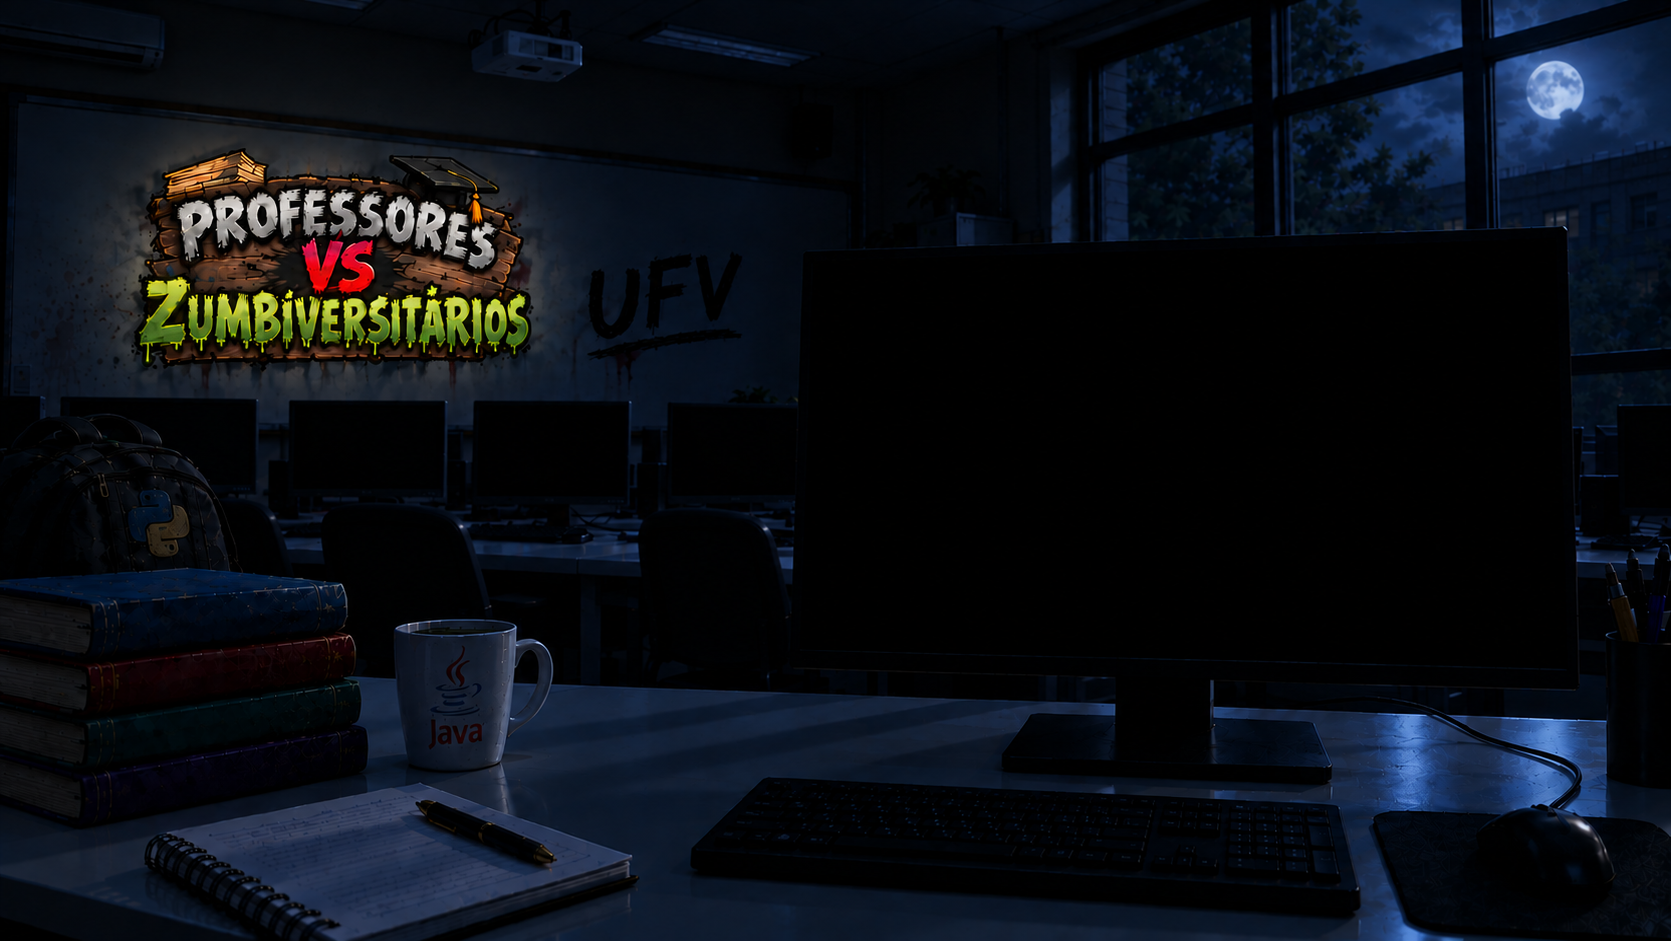
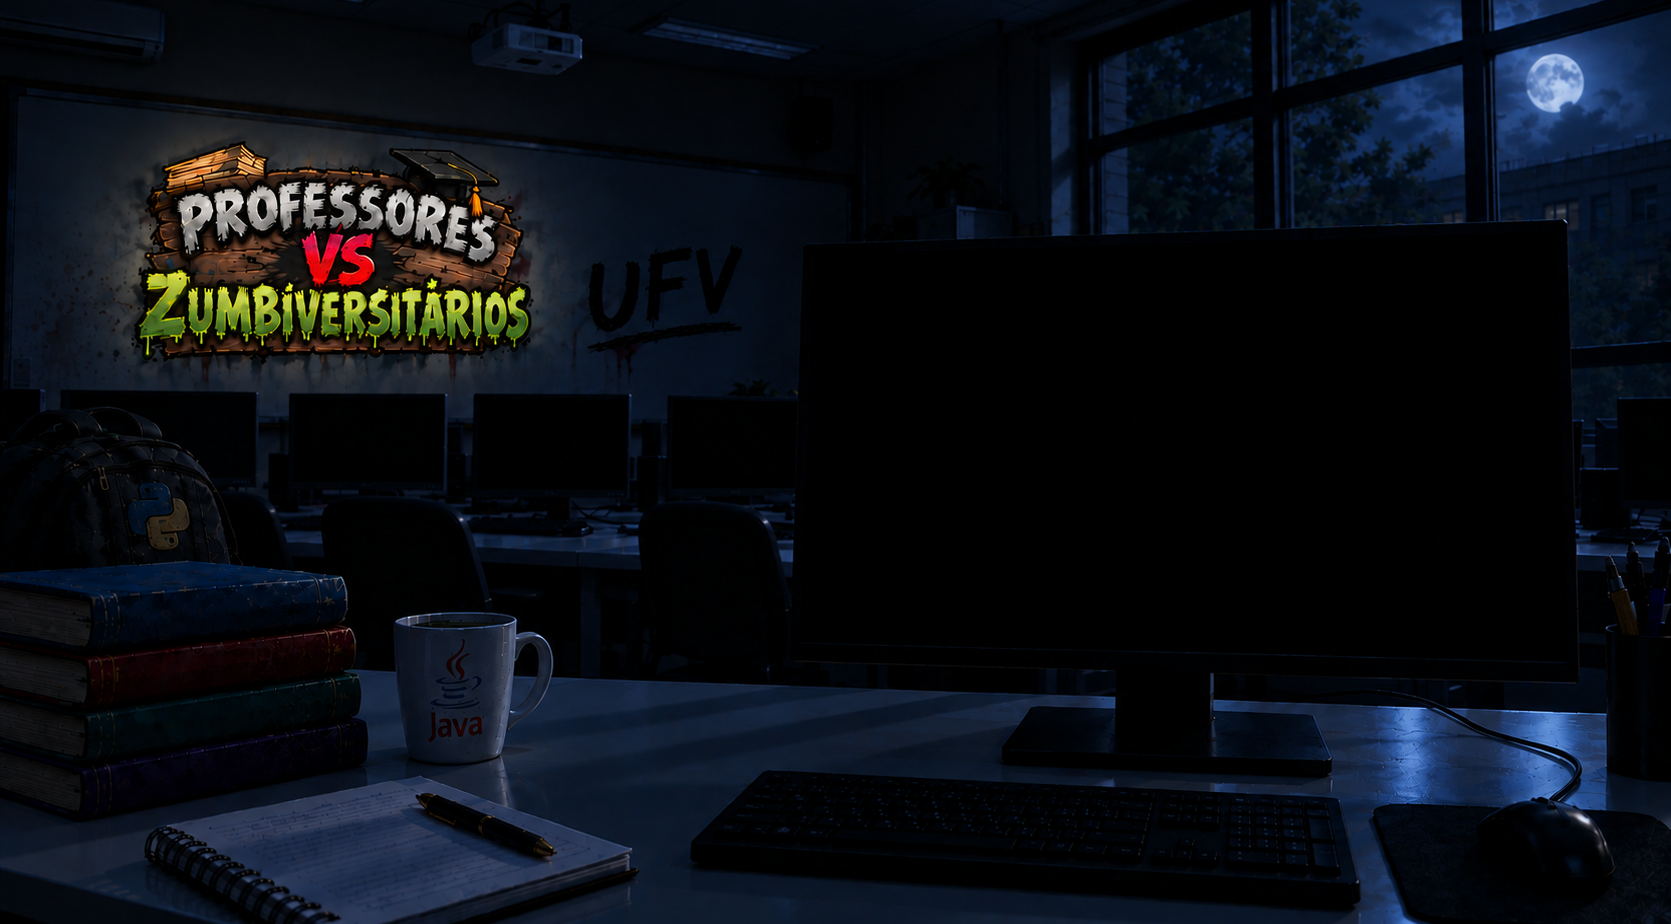
começando desenvolvimento da tela do jogo

diff --git a/poo2026_2/src/main/resources/styles/jogo.css b/poo2026_2/src/main/resources/styles/jogo.css
@@ -2,6 +2,32 @@
  * Empty Stylesheet file.
  */
 
-.mainFxmlClass {
+.celula {
+    -fx-background-color: transparent;
+    -fx-border-color: rgba(255, 255, 255, 0.18);
+    -fx-border-width: 1;
+}
 
+/* xadrez sutil: alterna a claridade das casas */
+.celula-clara  { -fx-background-color: rgba(255, 255, 255, 0.07); }
+.celula-escura { -fx-background-color: rgba(0, 0, 0, 0.10); }
+
+/* destaque ao passar o mouse */
+.celula:hover {
+    -fx-background-color: rgba(255, 220, 90, 0.30);
+    -fx-border-color: rgba(255, 220, 90, 0.90);
+    -fx-border-width: 2;
+    -fx-cursor: hand;
+}
+
+/* sprite temporario para testar o clique */
+.sprite-teste {
+    -fx-background-color: #2e7d32;
+    -fx-text-fill: white;
+    -fx-font-size: 36px;
+    -fx-font-weight: bold;
+    -fx-min-width: 90;
+    -fx-min-height: 90;
+    -fx-alignment: center;
+    -fx-background-radius: 45;
 }

diff --git a/poo2026_2/src/main/java/com/poo2026_2/controller/JogoController.java b/poo2026_2/src/main/java/com/poo2026_2/controller/JogoController.java
@@ -1,26 +1,96 @@
-/*
- * Click nbfs://nbhost/SystemFileSystem/Templates/Licenses/license-default.txt to change this license
- * Click nbfs://nbhost/SystemFileSystem/Templates/javafx/FXMLController.java to edit this template
- */
 package com.poo2026_2.controller;
 
 import java.net.URL;
 import java.util.ResourceBundle;
+import javafx.fxml.FXML;
 import javafx.fxml.Initializable;
+import javafx.scene.control.Label;
+import javafx.scene.layout.GridPane;
+import javafx.scene.layout.Pane;
+import javafx.scene.layout.StackPane;
 
 /**
  * FXML Controller class
  *
  * @author thoma
  */
+
 public class JogoController implements Initializable {
 
-    /**
-     * Initializes the controller class.
-     */
+    // deve alinhar com a imagem
+    // Coordenadas em pixels da IMAGEM ORIGINAL (1672 x 941).
+    private static final double LARGURA_PALCO = 1672;
+    private static final double ALTURA_PALCO  = 941;
+
+    private static final int    LINHAS   = 5;
+    private static final int    COLUNAS  = 9;
+    private static final double GRADE_X  = 230;  // canto superior esquerdo da grade
+    private static final double GRADE_Y  = 245;
+    private static final double CEL_LARG = 148;  // tamanho de cada casa
+    private static final double CEL_ALT  = 132;
+    // =================================================================
+
+    @FXML private StackPane raiz;
+    @FXML private Pane palco;
+    @FXML private GridPane grade;
+    @FXML private Pane camadaJogo;
+
+    // Placeholder da view: quais casas estao ocupadas (o modelo real fica no Tabuleiro)
+    private final StackPane[][] celulas = new StackPane[LINHAS][COLUNAS];
+
     @Override
     public void initialize(URL url, ResourceBundle rb) {
-        // TODO
-    }    
-    
+        montarGrade();
+        ajustarEscala();
+    }
+
+    private void montarGrade() {
+        grade.setLayoutX(GRADE_X);
+        grade.setLayoutY(GRADE_Y);
+
+        for (int l = 0; l < LINHAS; l++) {
+            for (int c = 0; c < COLUNAS; c++) {
+                StackPane celula = new StackPane();
+                celula.setPrefSize(CEL_LARG, CEL_ALT);
+                celula.setMinSize(CEL_LARG, CEL_ALT);
+                celula.setMaxSize(CEL_LARG, CEL_ALT);
+                celula.getStyleClass().add("celula");
+                // xadrez sutil, igual Plants vs Zombies
+                celula.getStyleClass().add((l + c) % 2 == 0 ? "celula-clara" : "celula-escura");
+
+                final int linha = l, coluna = c;
+                celula.setOnMouseClicked(e -> aoClicarNaCelula(linha, coluna));
+
+                celulas[l][c] = celula;
+                grade.add(celula, c, l);
+            }
+        }
+    }
+
+    // Por enquanto so coloca/tira um "P" de teste. Depois: chamar o GerenciadorDeJogo.
+    private void aoClicarNaCelula(int linha, int coluna) {
+        StackPane celula = celulas[linha][coluna];
+        if (celula.getChildren().isEmpty()) {
+            Label sprite = new Label("P");
+            sprite.getStyleClass().add("sprite-teste");
+            celula.getChildren().add(sprite);
+        } else {
+            celula.getChildren().clear();
+        }
+        System.out.println("Casa clicada: linha " + linha + ", coluna " + coluna);
+    }
+
+    // Escala o palco (1672x941) para caber na janela, mantendo a grade alinhada.
+    private void ajustarEscala() {
+        Runnable atualizar = () -> {
+            double s = Math.min(raiz.getWidth() / LARGURA_PALCO,
+                                raiz.getHeight() / ALTURA_PALCO);
+            if (s > 0) {
+                palco.setScaleX(s);
+                palco.setScaleY(s);
+            }
+        };
+        raiz.widthProperty().addListener((o, a, b) -> atualizar.run());
+        raiz.heightProperty().addListener((o, a, b) -> atualizar.run());
+    }
 }

diff --git a/poo2026_2/src/main/java/com/poo2026_2/controller/MenuController.java b/poo2026_2/src/main/java/com/poo2026_2/controller/MenuController.java
@@ -21,6 +21,12 @@ import javafx.util.Duration;
 
 import java.util.Random;
 
+/**
+ * FXML Controller class
+ *
+ * @author thoma
+ */
+
 public class MenuController implements ControladorTela {
 
     /** Resolucao "de referencia" em que os botoes foram desenhados no FXML. */
@@ -75,6 +81,10 @@ public class MenuController implements ControladorTela {
 
     @FXML
     private Button btnSair;
+    
+    //remover esse
+    @FXML
+    private Button btnJogo;
 
     private GerenciadorDeTelas gerenciadorDeTelas;
 
@@ -266,6 +276,13 @@ public class MenuController implements ControladorTela {
     private void abrirCreditos(ActionEvent event) {
         gerenciadorDeTelas.mudarTela(
                 "Creditos.fxml"
+        );
+    }
+    
+    @FXML
+    private void irJogo(ActionEvent event) {
+        gerenciadorDeTelas.mudarTela(
+                "Jogo.fxml"
         );
     }
 

diff --git a/poo2026_2/src/main/java/com/poo2026_2/controller/SelecaoNivelController.java b/poo2026_2/src/main/java/com/poo2026_2/controller/SelecaoNivelController.java
@@ -10,6 +10,12 @@ import java.util.ResourceBundle;
 import javafx.fxml.FXML;
 import javafx.scene.control.Button;
 
+/**
+ * FXML Controller class
+ *
+ * @author thoma
+ */
+
 public class SelecaoNivelController
         implements ControladorTela {
 
